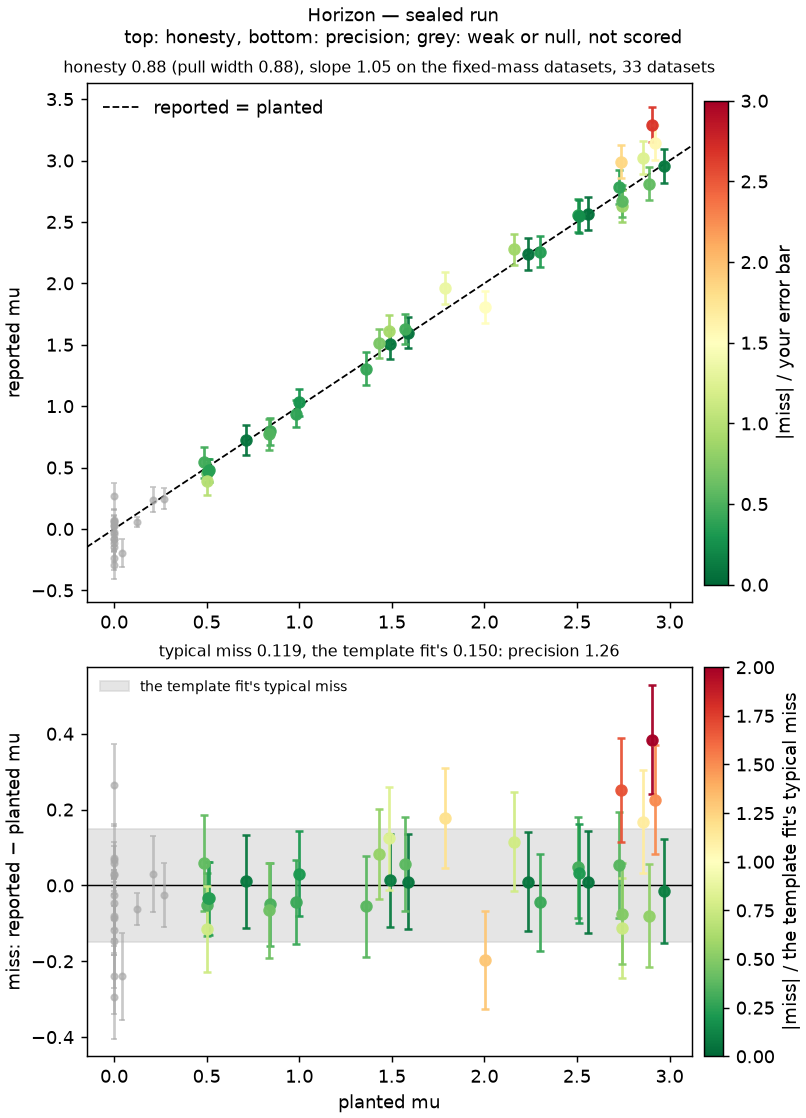
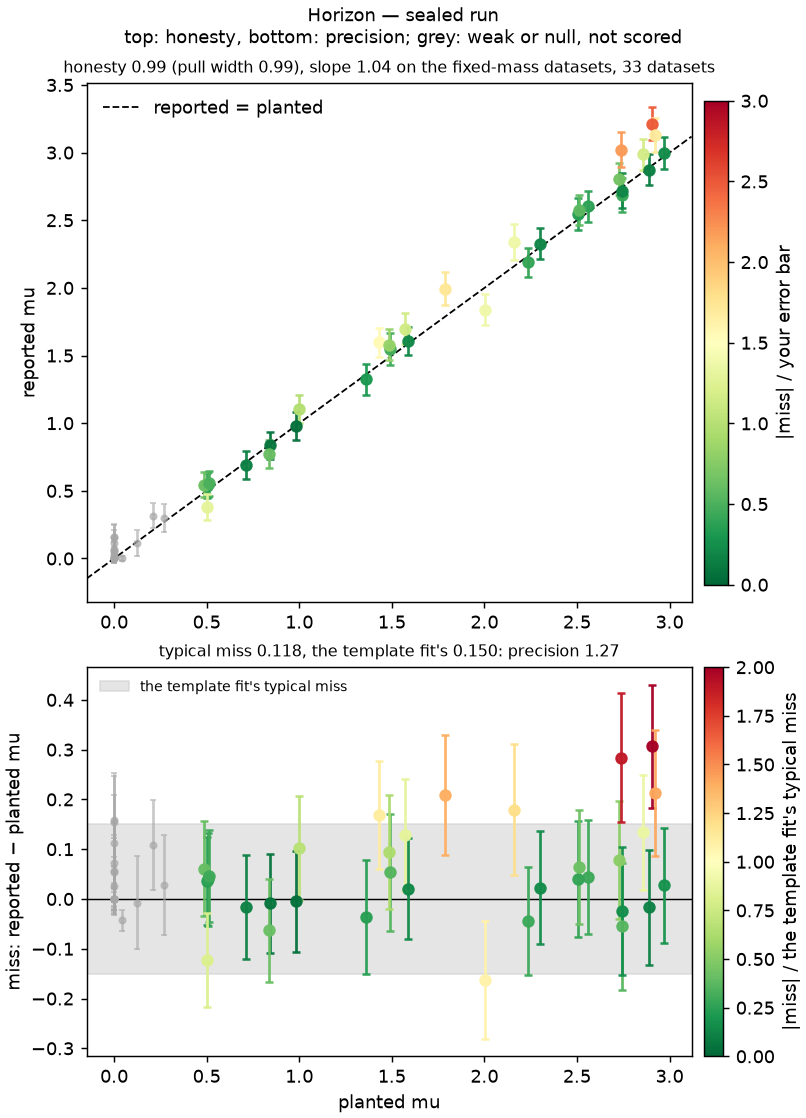
Hackathon leaderboard: sealed run of 2026-10-16 04:22 UTC

diff --git a/README.md b/README.md
@@ -50,12 +50,12 @@ Personal access tokens); from your laptop it is your usual push.
 ## Leaderboard
 
 <!-- leaderboard -->
-_Sealed run of 2026-10-15 11:22 UTC: each team's latest submission on the [issue](https://github.com/andrzejnovak/hsf-india-hww/issues/1), on 51 sealed datasets, the Higgs mass at 125 GeV in all of them and μ and the background rate planted anew in each._
+_Sealed run of 2026-10-16 04:22 UTC: each team's latest submission on the [issue](https://github.com/andrzejnovak/hsf-india-hww/issues/1), on 51 sealed datasets, the Higgs mass at 125 GeV in all of them and μ and the background rate planted anew in each._
 
 | # | team                                                              | score | precision | honesty | typical miss μ | σ μ   | pull width μ | submitted                                                                                                           |
 |---|-------------------------------------------------------------------|-------|-----------|---------|----------------|-------|--------------|---------------------------------------------------------------------------------------------------------------------|
-| 1 | [team_x](https://github.com/gauriaggarwal31/hsf-india-hww-team_x) | 119   | 1.28      | 0.93    | 0.117          | 0.121 | 0.93         | [350c714](https://github.com/gauriaggarwal31/hsf-india-hww-team_x/tree/350c714) 2026-10-15 11:12 by gauriaggarwal31 |
-| 2 | [Horizon](https://github.com/AnushSingla/horizon-hsf-workshop)    | 111   | 1.26      | 0.88    | 0.119          | 0.125 | 0.88         | [458fcb0](https://github.com/AnushSingla/horizon-hsf-workshop/tree/458fcb0ae83d) 2026-10-15 09:05 by AnushSingla    |
+| 1 | [Horizon](https://github.com/AnushSingla/horizon-hsf-workshop)    | 126   | 1.27      | 0.99    | 0.118          | 0.112 | 0.99         | [2c53e22](https://github.com/AnushSingla/horizon-hsf-workshop/tree/2c53e2212d17) 2026-10-16 04:12 by AnushSingla    |
+| 2 | [team_x](https://github.com/gauriaggarwal31/hsf-india-hww-team_x) | 119   | 1.28      | 0.93    | 0.117          | 0.121 | 0.93         | [350c714](https://github.com/gauriaggarwal31/hsf-india-hww-team_x/tree/350c714) 2026-10-15 11:12 by gauriaggarwal31 |
 | 3 | [Hack-404](https://github.com/shaurya-cd/Hack-404)                | 109   | 1.24      | 0.88    | 0.121          | 0.129 | 0.88         | [0909838](https://github.com/shaurya-cd/Hack-404/tree/0909838) 2026-10-15 07:18 by shaurya-cd                       |
 | 4 | [Pilot](https://github.com/ishandhull2953/hww-hackathon)          | 108   | 1.22      | 0.88    | 0.123          | 0.103 | 1.13         | [dff9a69](https://github.com/ishandhull2953/hww-hackathon/tree/dff9a69) 2026-10-15 09:37 by ishandhull2953          |
 | 5 | [Pilots](https://github.com/ishandhull2953/hww-hackathon)         | 108   | 1.22      | 0.88    | 0.123          | 0.103 | 1.13         | [dff9a69](https://github.com/ishandhull2953/hww-hackathon/tree/dff9a69996a9) 2026-10-15 10:31 by ishandhull2953     |
@@ -63,10 +63,11 @@ _Sealed run of 2026-10-15 11:22 UTC: each team's latest submission on the [issue
 | 7 | [baseline-nn](https://github.com/andrzejnovak/hsf-india-hww)      | 78    | 0.84      | 0.94    | 0.179          | 0.154 | 1.07         | [c549c28](https://github.com/andrzejnovak/hsf-india-hww/tree/c549c28882b3) 2026-10-14 08:26 by andrzejnovak         |
 
 <details>
-<summary><b>Earlier submissions</b> (3): by team, newest first, with the score each had</summary>
+<summary><b>Earlier submissions</b> (4): by team, newest first, with the score each had</summary>
 
 | team                                                              | score | precision | honesty | typical miss μ | σ μ   | pull width μ | submitted                                                                                                           |
 |-------------------------------------------------------------------|-------|-----------|---------|----------------|-------|--------------|---------------------------------------------------------------------------------------------------------------------|
+| [Horizon](https://github.com/AnushSingla/horizon-hsf-workshop)    | 111   | 1.26      | 0.88    | 0.119          | 0.125 | 0.88         | [458fcb0](https://github.com/AnushSingla/horizon-hsf-workshop/tree/458fcb0ae83d) 2026-10-15 09:05 by AnushSingla    |
 | [team_x](https://github.com/gauriaggarwal31/hsf-india-hww-team_x) | 105   | 1.14      | 0.92    | 0.131          | 0.135 | 0.92         | [46fac17](https://github.com/gauriaggarwal31/hsf-india-hww-team_x/tree/46fac17) 2026-10-15 10:53 by gauriaggarwal31 |
 | [team_x](https://github.com/gauriaggarwal31/hsf-india-hww-team_x) | 103   | 1.04      | 0.99    | 0.144          | 0.138 | 1.01         | [d1f83a7](https://github.com/gauriaggarwal31/hsf-india-hww-team_x/tree/d1f83a7) 2026-10-15 09:07 by gauriaggarwal31 |
 | [Pilots](https://github.com/ishandhull2953/hww-hackathon)         | 98    | 1.00      | 0.98    | 0.150          | 0.144 | 0.98         | [69e717a](https://github.com/ishandhull2953/hww-hackathon/tree/69e717a) 2026-10-15 08:29 by ishandhull2953          |
@@ -76,13 +77,13 @@ _Sealed run of 2026-10-15 11:22 UTC: each team's latest submission on the [issue
 <details>
 <summary><b>Recovery plots</b>, per team: honesty on top, each dataset coloured by its pull; precision below, each miss against the template fit's typical miss</summary>
 
+**Horizon** (score 126)
+
+![Horizon](results/Horizon.png)
+
 **team_x** (score 119)
 
 ![team_x](results/team_x.png)
-
-**Horizon** (score 111)
-
-![Horizon](results/Horizon.png)
 
 **Hack-404** (score 109)
 
